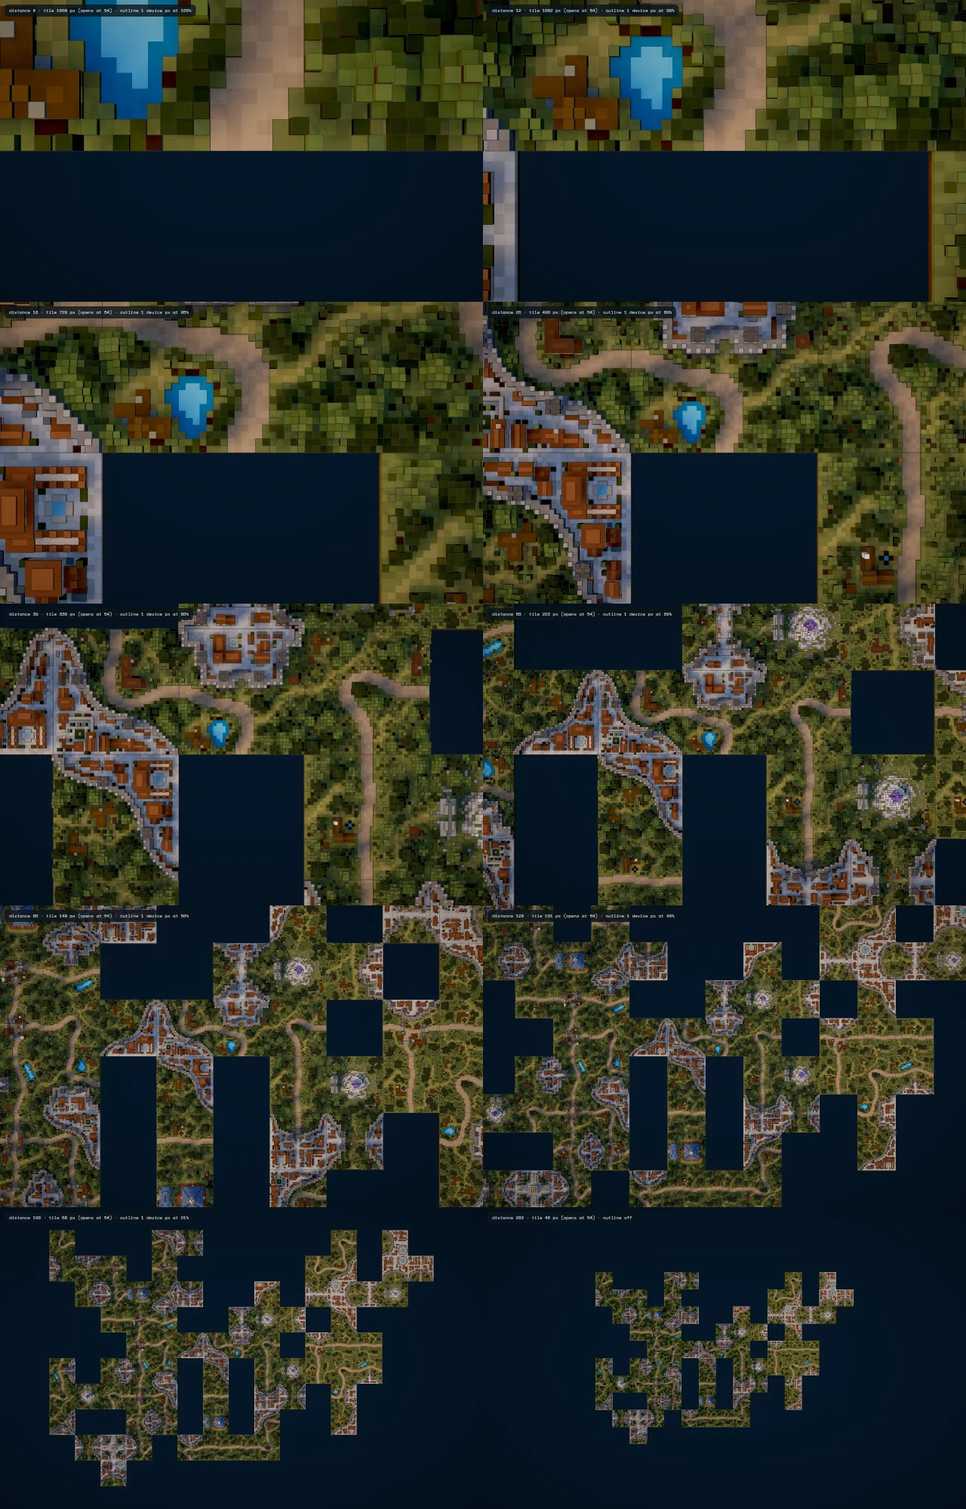
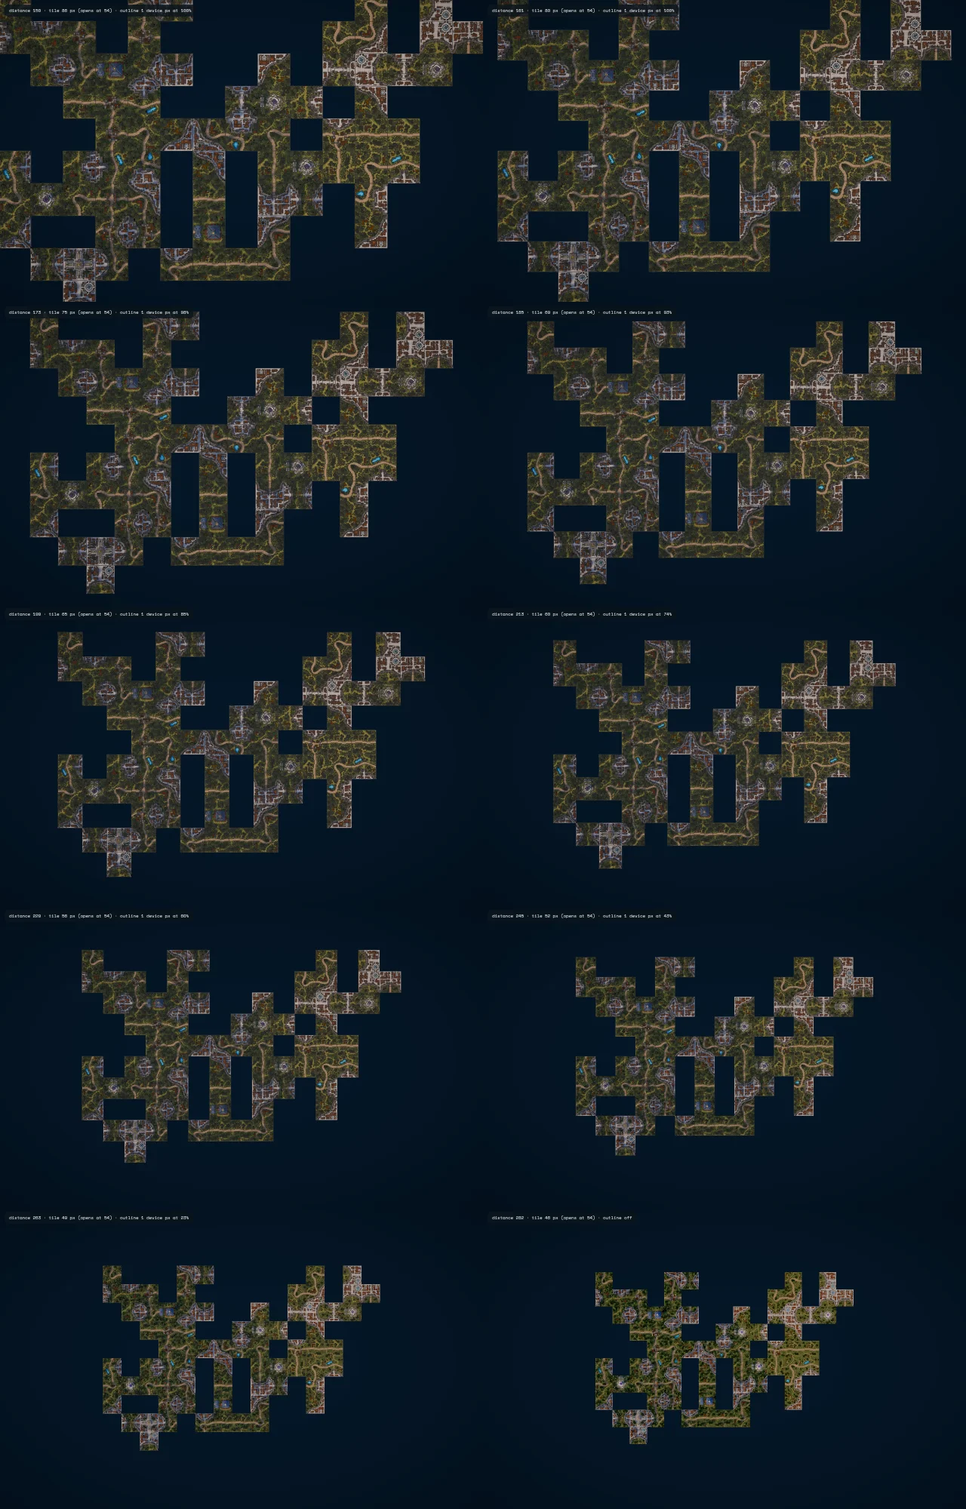
OUT-FADE2: the fade's start is a setting (default 1.5 S), max zoom-in preset, captures

diff --git a/packages/renderer/__tests__/outlines.test.ts b/packages/renderer/__tests__/outlines.test.ts
@@ -6,6 +6,7 @@ import {
   MIN_OUTLINE_OPACITY,
   OUTLINE_CLOSEST_FACTOR,
   OUTLINE_DEPTH_BIAS,
+  OUTLINE_FADE_START,
   OUTLINE_FADE_PRESETS,
   TILE_VOXELS,
   VOXEL_SIZE,
@@ -104,6 +105,17 @@ describe("outlineStroke: the zoom-to-stroke function", () => {
       expect(outlineFade(90, 60, 90, p)).toBe(1);
       expect(outlineFade(900, 60, 90, p)).toBe(1);
     }
+  });
+
+  it("takes t from a variable start: the same position in the log range, whatever the start", () => {
+    // Off at 60 px, start at 90 / 900 / 1800 px: the middle of each log range is t = 0.5.
+    for (const full of [90, 900, 1800]) {
+      expect(outlineFadeT(60 * Math.sqrt(full / 60), 60, full)).toBeCloseTo(0.5, 9);
+      expect(outlineFade(60 * Math.sqrt(full / 60), 60, full, 2)).toBeCloseTo(0.75, 9);
+      expect(outlineFadeT(full, 60, full)).toBe(0);
+    }
+    // A later start fades more gently where the earlier one is already weaker: lower opacity at a given size.
+    expect(outlineFade(100, 60, 1800)).toBeLessThan(outlineFade(100, 60, 150));
   });
 
   it("starts gently and accelerates into the threshold: the slope grows as the camera zooms out (p > 1)", () => {
@@ -208,14 +220,15 @@ describe("outlineStroke: the zoom-to-stroke function", () => {
     expect(outlineStroke(60.5, step)).toMatchObject({ width: 1, opacity: 1 });
   });
 
-  it("defaults: off at 0.85 S, fully on at the closest zoom (30 S), square, a hairline, dark grey", () => {
+  it("defaults: off at 0.85 S, fully on from 1.5 S, square, a hairline, dark grey", () => {
     expect(OUTLINE_CLOSEST_FACTOR).toBe(30);
     expect(OUTLINE_CLOSEST_FACTOR).toBe(OPENING_DISTANCE / CLOSEST_DISTANCE);
+    expect(OUTLINE_FADE_START).toBe(1.5);
     expect(DEFAULT_OUTLINE_SETTINGS).toEqual({
       enabled: true,
       force: "auto",
       fadeOffFactor: 0.85,
-      fadeFullFactor: 30,
+      fadeFullFactor: 1.5,
       fadeExponent: 2,
       fadeEasedEnd: false,
       widthVoxels: 0.015,
@@ -226,22 +239,29 @@ describe("outlineStroke: the zoom-to-stroke function", () => {
       segmentFullDevicePx: 1,
     });
     for (const s of [52, 60, 75]) {
-      expect(outlineStroke(30 * s, DEFAULT_OUTLINE_SETTINGS, 1, s)).toMatchObject({ opacity: 1 });
+      expect(outlineStroke(1.5 * s, DEFAULT_OUTLINE_SETTINGS, 1, s)).toMatchObject({ opacity: 1 });
       expect(outlineStroke(0.85 * s, DEFAULT_OUTLINE_SETTINGS, 1, s).opacity).toBe(0);
-      // The opening view is almost off: t = ln(30) / ln(30 / 0.85) = 0.9543, 1 - t^2 = 0.0891.
-      expect(outlineStroke(s, DEFAULT_OUTLINE_SETTINGS, 1, s).opacity).toBeCloseTo(0.0891, 3);
+      // The opening view: t = ln(1.5) / ln(1.5 / 0.85) = 0.7139, 1 - t^2 = 0.4904.
+      expect(outlineStroke(s, DEFAULT_OUTLINE_SETTINGS, 1, s).opacity).toBeCloseTo(0.4904, 3);
     }
+    expect(outlineOpacityAtOpening()).toBeCloseTo(0.4904, 3);
     // The tile size at the closest zoom is the opening one times 240 / 8, seen from the camera.
     const cam = new THREE.PerspectiveCamera(50, 1, 5, 2000);
     expect(tilePixels(cam, CLOSEST_DISTANCE, 900) / openingTilePixels(cam, 900)).toBeCloseTo(OUTLINE_CLOSEST_FACTOR, 9);
-    // The opacity at S and at 1.15 S for each preset.
-    const at = (m: number, p: number) => outlineFade(m, 0.85, 30, p);
-    expect([1, 2, 3].map((p) => Number(at(1, p).toFixed(4)))).toEqual([0.0456, 0.0891, 0.1307]);
-    expect([1, 2, 3].map((p) => Number(at(1.15, p).toFixed(4)))).toEqual([0.0848, 0.1624, 0.2335]);
+    // The opacity at S and at 1.15 S for each curve at the default start.
+    const at = (m: number, p: number) => outlineFade(m, 0.85, 1.5, p);
+    expect([1, 2, 3].map((p) => Number(at(1, p).toFixed(4)))).toEqual([0.2861, 0.4904, 0.6362]);
+    expect([1, 2, 3].map((p) => Number(at(1.15, p).toFixed(4)))).toEqual([0.5322, 0.7812, 0.8976]);
+    // The "max zoom-in" start (the closest zoom, 30 S): the literal version, almost off at S.
+    const far = (m: number, p: number) => outlineFade(m, 0.85, OUTLINE_CLOSEST_FACTOR, p);
+    expect([1, 2, 3].map((p) => Number(far(1, p).toFixed(4)))).toEqual([0.0456, 0.0891, 0.1307]);
+    expect(outlineOpacityAtOpening(0.85, OUTLINE_CLOSEST_FACTOR)).toBeCloseTo(0.0891, 3);
+    expect(outlineStroke(30 * 60, { ...DEFAULT_OUTLINE_SETTINGS, fadeFullFactor: OUTLINE_CLOSEST_FACTOR }, 1, 60).opacity).toBe(1);
+    expect(outlineStroke(29 * 60, { ...DEFAULT_OUTLINE_SETTINGS, fadeFullFactor: OUTLINE_CLOSEST_FACTOR }, 1, 60).opacity).toBeLessThan(1);
     // Without an opening size, a 900 px high window's (60 px).
     expect(DEFAULT_OPENING_TILE_PX).toBe(60);
-    expect(outlineStroke(70).opacity).toBeCloseTo(outlineFade(70, 51, 1800), 9);
-    expect(outlineStroke(1800)).toMatchObject({ width: 1, opacity: 1 });
+    expect(outlineStroke(70).opacity).toBeCloseTo(outlineFade(70, 51, 90), 9);
+    expect(outlineStroke(90)).toMatchObject({ width: 1, opacity: 1 });
     expect(outlineStroke(51).opacity).toBe(0);
   });
 });
@@ -256,11 +276,12 @@ describe("the opening tile size S", () => {
     expect(openingTilePixels(camera, 900)).toBeCloseTo(60.3, 1);
   });
 
-  it("puts the fade at the same distances on every screen: 0.089 at the opening view, fully on at the closest zoom (8), off past 240 / 0.85", () => {
+  it("puts the fade at the same distances on every screen: 0.49 at the opening view, fully on from 240 / 1.5, off past 240 / 0.85", () => {
     for (const height of [780, 900, 1300]) {
       const s = openingTilePixels(camera, height);
       const at = (distance: number) => outlineStroke(tilePixels(camera, distance, height), DEFAULT_OUTLINE_SETTINGS, 1, s);
-      expect(at(240).opacity).toBeCloseTo(0.0891, 3);
+      expect(at(240).opacity).toBeCloseTo(0.4904, 3);
+      expect(at(240 / 1.5)).toMatchObject({ width: 1, opacity: 1 });
       expect(at(CLOSEST_DISTANCE)).toMatchObject({ width: 1, opacity: 1 });
       expect(at(240 / 0.85 + 0.01).opacity).toBe(0);
       // The farthest zoom (300) is past the off distance (about 282): the outlines vanish zoomed out.

diff --git a/packages/renderer/src/core/outlines.ts b/packages/renderer/src/core/outlines.ts
@@ -16,8 +16,8 @@ import { TILE_SIZE } from "./types";
  *
  * The width is set in the world, as a fraction of a voxel (`widthVoxels`), converted to device pixels at the camera's
  * target, kept to at least `minWidthDevicePx` (a hairline) and capped at `maxWidthPx` CSS px when zoomed in. Zoomed out
- * the outlines fade over the whole zoom range (OUT-FADE2): fully on at the closest zoom (`fadeFullFactor` of the tile size
- * S the board opens at on this viewport, `OUTLINE_CLOSEST_FACTOR` x S) to off at `fadeOffFactor` x S, as `1 - t^p` where
+ * the outlines fade (OUT-FADE2): fully on from `fadeFullFactor` of the tile size S the board opens at on this viewport (the fade's
+ * start: 1.5 S, up to the closest zoom, `OUTLINE_CLOSEST_FACTOR` x S) to off at `fadeOffFactor` x S, as `1 - t^p` where
  * t runs from 0 to 1 on the logarithm of the tile size: a wheel step multiplies the tile size by a constant, so each step
  * moves t by the same amount. They are drawn after the faces with a depth bias towards the camera: an outline lies
  * exactly on the faces it borders, and without the bias it wins or loses the depth test by rounding (the flicker R-OUT
@@ -45,7 +45,7 @@ export interface OutlineSettings {
   /**
    * At or above this share of the opening tile size the outlines are fully on; between the two the opacity is
    * `1 - t^p` of the logarithm of the tile size (`outlineFade`). The default is the closest zoom's share
-   * (`OUTLINE_CLOSEST_FACTOR`): the fade spans the whole zoom range.
+   * (`OUTLINE_FADE_START`, 1.5 S): the fade's start, from `MIN_FADE_START` (1.5) up to `OUTLINE_CLOSEST_FACTOR` (the closest zoom, 30 S).
    */
   fadeFullFactor: number;
   /** The exponent p of the fade `1 - t^p`, in [1, 4]: 1 linear, 2 square (gentle at first, faster near the threshold), 3 cube. */
@@ -83,6 +83,11 @@ export const MIN_OUTLINE_OPACITY = 1 / 255;
  */
 export const OUTLINE_CLOSEST_FACTOR = OPENING_DISTANCE / CLOSEST_DISTANCE;
 
+/** The fade's default start (PM ruling 2026-10-17): fully on from 1.5 S; about 0.49 at the opening view with the square curve. */
+export const OUTLINE_FADE_START = 1.5;
+/** The lowest start the story offers. */
+export const MIN_FADE_START = 1.5;
+
 /** The exponent's range in the story's control. */
 export const MIN_FADE_EXPONENT = 1;
 export const MAX_FADE_EXPONENT = 4;
@@ -93,12 +98,12 @@ const EASED_END_SPAN = 0.25;
 export const DEFAULT_OUTLINE_SETTINGS: OutlineSettings = {
   enabled: true,
   force: "auto",
-  // The fade follows the opening tile size S: off at 0.85 S (the historic threshold), fully on at the closest zoom
-  // (30 S), `1 - t^p` of log(tile px) between (OUT-FADE2), p = 2. A 360 x 780 phone opens at about 52 px a tile (off at
+  // The fade follows the opening tile size S: off at 0.85 S (the historic threshold), fully on from the start
+  // (1.5 S; up to the closest zoom, 30 S), `1 - t^p` of log(tile px) between (OUT-FADE2), p = 2. A 360 x 780 phone opens at about 52 px a tile (off at
   // 44), a 900 px high window at about 60 (off at 51, over the farthest zoom's 48 px: the outlines vanish zoomed out).
   // At S itself the opacity is no longer 1: see `outlineOpacityAtOpening`.
   fadeOffFactor: 0.85,
-  fadeFullFactor: OUTLINE_CLOSEST_FACTOR,
+  fadeFullFactor: OUTLINE_FADE_START,
   fadeExponent: 2,
   fadeEasedEnd: false,
   // 1.5 % of a voxel, in the 1 to 2 % that keeps the stroke thin. That is under a device pixel until a voxel is about 33 CSS px wide
@@ -139,7 +144,7 @@ const OFF: OutlineStroke = { width: 0, opacity: 0 };
 /**
  * The stroke for a tile shown `tilePx` CSS px wide on a screen of `pixelRatio` device px per CSS px, where the board
  * opens at `openingTilePx` (S, `openingTilePixels`). The opacity is 0 at or below `fadeOffFactor` x S, 1 at or above
- * `fadeFullFactor` x S (the closest zoom), `outlineFade` between, and 0 below `MIN_OUTLINE_OPACITY`. The width
+ * `fadeFullFactor` x S (the start), `outlineFade` between, and 0 below `MIN_OUTLINE_OPACITY`. The width
  * is `widthVoxels` of a voxel at that zoom, in device px, at least `minWidthDevicePx` and at most `maxWidthPx` CSS px.
  * Width and opacity never decrease as the camera zooms in.
  */

diff --git a/packages/app/src/stories/renderer/outlines.stories.tsx b/packages/app/src/stories/renderer/outlines.stories.tsx
@@ -4,8 +4,8 @@ import { MAX_DISTANCE, MIN_DISTANCE, VIEWS } from "./outlines-tour";
 
 /**
  * The voxel tiles' outlines on the recorded 72-tile board (R-OUT, R-VIS): dark grey antialiased strokes whose width is a
- * share of a voxel (a hairline over most of the zoom range, capped zoomed in), fading out over the whole zoom range
- * (OUT-FADE2): fully on at the closest zoom, off at 0.85 of the tile size the board opens at on this screen, as 1 - t^p
+ * share of a voxel (a hairline over most of the zoom range, capped zoomed in), fading out as the camera zooms out
+ * (OUT-FADE2): fully on from 1.5 of the tile size the board opens at on this screen (or up to the closest zoom), off at 0.85 of it, as 1 - t^p
  * with t on the log of the tile size (curve presets linear, square, cube; p on a control), and never flickering while it pans. The
  * tour goes through the views where the old 1-pixel lines failed; stop it to hold one view and set its distance. Under
  * reduced motion nothing moves by itself.
@@ -29,12 +29,12 @@ const meta = {
       description: "Outlines on software WebGL (SwiftShader, llvmpipe...): auto turns them off there; on and off force them whatever the detection says. The console logs the path taken",
       table: { category: "Outlines" },
     },
-    fadeRange: {
-      // Keys without a dot, so a URL can name one (`args=fadeRange:fade_1_3`); `mapping` gives the board the range.
-      control: { type: "inline-radio", labels: { whole_range: "whole range", fade_1_3: "fade 1.3", fade_1_15: "fade 1.15", custom: "custom" } },
-      options: ["whole_range", "fade_1_3", "fade_1_15", "custom"],
-      mapping: { whole_range: "whole range", fade_1_3: "fade 1.3", fade_1_15: "fade 1.15", custom: "custom" },
-      description: "Where the outlines are fully on: whole range (the default) is the closest zoom, 30 x the opening tile size S; fade 1.3 and fade 1.15 are OUT-FADE's 1.3 S and 1.15 S. All are off at 0.85 S. Custom: the full factor control below",
+    fadeStart: {
+      // Keys without a dot or space, so a URL can name one (`args=fadeStart:max_zoom_in`); `mapping` gives the board the start.
+      control: { type: "inline-radio", labels: { s1_5: "1.5 S", max_zoom_in: "max zoom-in", custom: "custom" } },
+      options: ["s1_5", "max_zoom_in", "custom"],
+      mapping: { s1_5: "1.5 S", max_zoom_in: "max zoom-in", custom: "custom" },
+      description: "Where the outlines are fully on: 1.5 S (the default; S is the opening tile size, the readout's \"opens at\"; 0.49 at S with the square curve) or max zoom-in, the closest zoom (30 S, the literal whole-range fade: 0.09 at S). All are off at 0.85 S. Custom: the start control below",
       table: { category: "Outlines" },
     },
     fadeCurve: {
@@ -54,8 +54,8 @@ const meta = {
       table: { category: "Outlines" },
     },
     fadeFullFactor: {
-      control: { type: "range", min: 0.5, max: 30, step: 0.01 },
-      description: "Outlines fully on from this share of the tile size the board opens at on this screen (the readout's \"opens at\"; 30 is the closest zoom); with a range preset, the preset's",
+      control: { type: "range", min: 1.5, max: 30, step: 0.1 },
+      description: "The fade's start: outlines fully on from this share of the tile size the board opens at on this screen (1.5 to 30, the closest zoom), on a log scale; with a start preset, the preset's",
       table: { category: "Outlines" },
     },
     fadeOffFactor: {

diff --git a/packages/app/src/stories/renderer/outlines-board.tsx b/packages/app/src/stories/renderer/outlines-board.tsx
@@ -25,11 +25,10 @@ export interface OutlinesBoardProps {
   /** Outlines on software WebGL: "auto" turns them off there; "on" and "off" force them whatever the detection says. */
   force?: "auto" | "on" | "off";
   /**
-   * The fade's range (OUT-FADE2): "whole range" fully on at the closest zoom (30 S), off at 0.85 S; "fade 1.3" and
-   * "fade 1.15" (OUT-FADE's) fully on from 1.3 S or 1.15 S, also off at 0.85 S. A range sets the full factor below;
-   * "custom" leaves it to its control.
+   * Where the fade starts (OUT-FADE2): "1.5 S" (the default) fully on from 1.5 x the opening tile size S; "max zoom-in"
+   * the closest zoom (30 S), the literal whole-range fade; "custom" leaves it to the start control below.
    */
-  fadeRange?: FadeRange;
+  fadeStart?: FadeStart;
   /** The curve 1 - t^p: "linear" p = 1, "square" p = 2 (the default), "cube" p = 3; "custom" leaves p to its control. */
   fadeCurve?: FadeCurve;
   fadeExponent?: number;
@@ -54,24 +53,23 @@ export interface OutlinesBoardProps {
   maxPixelRatio?: number | "auto";
 }
 
-export type FadeRange = "whole range" | "fade 1.3" | "fade 1.15" | "custom";
+export type FadeStart = "1.5 S" | "max zoom-in" | "custom";
 export type FadeCurve = "linear" | "square" | "cube" | "custom";
 
 /** The curves' exponents p of 1 - t^p (the renderer's `OUTLINE_FADE_PRESETS`, which its index does not export). */
 const FADE_CURVES = { linear: 1, square: 2, cube: 3 } as const;
 
-/** The ranges' full factors (shares of the opening tile size S); all are off at 0.85 S. */
-export const FADE_RANGES = {
-  "whole range": { fadeFullFactor: DEFAULT_RENDERER_SETTINGS.outlines.fadeFullFactor },
-  "fade 1.3": { fadeFullFactor: 1.3 },
-  "fade 1.15": { fadeFullFactor: 1.15 },
+/** The starts' full factors (shares of the opening tile size S); the fade is off at 0.85 S. 30 is the closest zoom. */
+export const FADE_STARTS = {
+  "1.5 S": { fadeFullFactor: DEFAULT_RENDERER_SETTINGS.outlines.fadeFullFactor },
+  "max zoom-in": { fadeFullFactor: (DEFAULT_RENDERER_SETTINGS.camera.maxDistance * 0.8) / DEFAULT_RENDERER_SETTINGS.camera.minDistance },
 } as const;
 
 const { outlines: OUTLINES, camera: CAMERA } = DEFAULT_RENDERER_SETTINGS;
 
 /** The story's defaults: the renderer's. */
 export const SETTINGS_DEFAULTS = {
-  fadeRange: "whole range" as FadeRange,
+  fadeStart: "1.5 S" as FadeStart,
   fadeCurve: "square" as FadeCurve,
   fadeExponent: OUTLINES.fadeExponent,
   fadeEasedEnd: OUTLINES.fadeEasedEnd,
@@ -142,7 +140,7 @@ export function OutlinesBoard({ tour, view, distance, redraw = false, readout = 
   const merged = { ...SETTINGS_DEFAULTS, ...rest };
   const o = {
     ...merged,
-    ...(merged.fadeRange === "custom" ? {} : FADE_RANGES[merged.fadeRange]),
+    ...(merged.fadeStart === "custom" ? {} : FADE_STARTS[merged.fadeStart]),
     ...(merged.fadeCurve === "custom" ? {} : { fadeExponent: FADE_CURVES[merged.fadeCurve] }),
   };
   const settings = useMemo<RendererSettingsInput>(

diff --git a/packages/renderer/__tests__/game-scene-settings.test.ts b/packages/renderer/__tests__/game-scene-settings.test.ts
@@ -117,14 +117,14 @@ describe("GameScene settings", () => {
     const desktop = scene.getZoom();
     expect(desktop.openingTilePx).toBeCloseTo(openingTilePixels(camera, 900), 9);
     expect(desktop.openingTilePx).toBeCloseTo(60.3, 1);
-    // The opening view is at 0.089 of the fade (OUT-FADE2, square), the same on every screen.
-    expect(desktop.outline.opacity).toBeCloseTo(0.0893, 2);
+    // The opening view is at 0.49 of the fade (OUT-FADE2, square, start 1.5 S), the same on every screen.
+    expect(desktop.outline.opacity).toBeCloseTo(0.4904, 2);
     scene.render();
     (scene as any).surface = { getSize: () => ({ width: 360, height: 780 }) };
     const phone = scene.getZoom();
     expect(phone.openingTilePx).toBeCloseTo(52.3, 1);
     // The opening view keeps its opacity: the tile and S shrink together.
-    expect(phone.outline.opacity).toBeCloseTo(0.0893, 2);
+    expect(phone.outline.opacity).toBeCloseTo(0.4904, 2);
     scene.render();
     expect(setOutlineStroke).toHaveBeenCalledTimes(2);
   });

diff --git a/docs/client/v2-architecture.md b/docs/client/v2-architecture.md
@@ -1320,30 +1320,43 @@ so a straight edge split into many segments covers each pixel once. The width is
 `widthVoxels` (0.015, 1.5 % of a voxel; a tile is 40 voxels of 0.075 world units) at the
 camera's target, at least `minWidthDevicePx` (1, a hairline) and at most `maxWidthPx` (2 CSS px, the cap
 zoomed in). The fade follows the tile size S the board opens at on this viewport (`openingTilePixels`: a tile's size at
-the camera's opening distance, 0.8 of its farthest, 240), recomputed when the viewport is resized, and spans **the whole
-zoom range** (OUT-FADE2, owner 2026-10-17: OUT-FADE's range was too short): fully on at the closest zoom
-(`CLOSEST_DISTANCE`, 8), off at `fadeOffFactor` (0.85) x S, the historic threshold. The tile size is inversely
-proportional to the camera distance, so the tile at the closest zoom is 240 / 8 = **30 S** (about 1,600 px, 1,608 measured, at S = 54 on a
-1280 x 800 window; `OUTLINE_CLOSEST_FACTOR`, `fadeFullFactor` 30). The opacity is `1 - t^p`, with
-`t = ln(full / tile px) / ln(full / off)`: 0 at the closest zoom, 1 at 0.85 S, measured on the log of the tile size so
-every wheel step moves t by the same amount; clamped to 1 above and 0 below, and 0 under 1/255 (not drawn). The exponent
-`fadeExponent` p is in [1, 4]; the story's presets are **linear** (p = 1), **square** (p = 2, the default: gentle at the
-start of the zoom-out, faster near the threshold, as the owner described) and **cube** (p = 3), and `fadeEasedEnd` (off by
-default, because the owner asked for an acceleration into the threshold) eases the last quarter of the opacity with a cubic
-that meets `1 - t^p` with its slope and reaches 0 with a zero slope: no kink at the threshold. The smoothstep of OUT-FADE
-is gone. A 360 x 780 phone opens at S = 52 (off at about 44), a 900 px high window at about 60 (off at about 51). The tile
-and S scale together with the height, so on every screen the outlines are off past distance 240 / 0.85 (about 282): they
-vanish at the farthest zoom (300). **Consequence: the opening view (S) is almost off.** The opening distance is 240 of a
-range of 8 to 300, so S is only 0.18 of the way from the off point to the closest zoom in the log: t = ln 30 / ln(30 / 0.85)
-= 0.954, and the opacity at S is **4.6 % (linear), 8.9 % (square), 13.1 % (cube)**; at 1.15 S 8.5 %, 16.2 %, 23.3 %; at
-0.92 S 2.2 %, 4.4 %, 6.5 %; at 0.87 S 0.7 %, 1.3 %, 1.9 % (readouts of the story match, rounded). Square reaches 50 % at 2.4 S
-(distance about 100, 130 px a tile at S = 54). The
-OUT-FADE ranges stay in the story as the "range" option ("fade 1.3", "fade 1.15", fully on from 1.3 S or 1.15 S, with the
-chosen power curve instead of the smoothstep) next to "whole range" (the default) and a custom full factor. Captures
-(`captures/out-fade2-<curve>-<view>.webp`, curve linear, square, cube; views max-zoom-in, S, 0.92-S, 0.87-S; the
-Outlines story, 1280 x 800, DPR 1, headless Chrome on **software WebGL (SwiftShader), outlines forced on**,
-`force: "on"`), and a frame strip of a zoom-out sweep (10 frames, log-spaced from the closest zoom to 0.85 S, square):
-`captures/out-fade2-square-sweep.webp`.
+the camera's opening distance, 0.8 of its farthest, 240), recomputed when the viewport is resized. It is `1 - t^p`
+(OUT-FADE2, owner 2026-10-17: OUT-FADE's range was too short): off at `fadeOffFactor` (0.85) x S, the historic threshold,
+and fully on from `fadeFullFactor`, **the fade's start**, a setting and a story control from 1.5 S up to the closest zoom
+(`CLOSEST_DISTANCE`, 8). The tile size is inversely proportional to the camera distance, so the tile at the closest zoom
+is 240 / 8 = **30 S** (`OUTLINE_CLOSEST_FACTOR`; 1,608 px measured at S = 54 on a 1280 x 800 window). With
+`t = ln(full / tile px) / ln(full / off)`: 0 at the start and above, 1 at 0.85 S, on the log of the tile size so every
+wheel step moves t by the same amount; the opacity is clamped to 1 above the start and 0 below 0.85 S, and hidden under
+1/255. The exponent `fadeExponent` p is in [1, 4]; the story's presets are **linear** (p = 1), **square** (p = 2, the
+default: gentle at the start of the zoom-out, faster near the threshold, as the owner described) and **cube** (p = 3);
+`fadeEasedEnd` (off by default, because the owner asked for an acceleration into the threshold) eases the last quarter of
+the opacity with a cubic that meets `1 - t^p` with its slope and reaches 0 with a zero slope: no kink at the threshold.
+The smoothstep of OUT-FADE is gone. A 360 x 780 phone opens at S = 52 (off at about 44), a 900 px high window at about 60
+(off at about 51). The tile and S scale together with the height, so on every screen the outlines are off past distance
+240 / 0.85 (about 282): they vanish at the farthest zoom (300).
+
+**The start (PM ruling 2026-10-17).** The literal version, fully on only at the closest zoom ("max zoom-in", start 30 S),
+leaves the opening view almost off: S is only 0.18 of the way up the log range from 0.85 S to 30 S, t = ln 30 /
+ln(30 / 0.85) = 0.954, and the opacity at S is 4.6 % (linear), **8.9 %** (square), 13.1 % (cube). So the default start is
+**1.5 S**: t = ln 1.5 / ln(1.5 / 0.85) = 0.714 and the opacity at the opening view is **0.490** with square. Opacity by
+curve at the default start (readouts of the story, software WebGL, match the formula):
+
+| | linear | square | cube |
+|---|---|---|---|
+| S (opening view) | 28.6 % | **49.0 %** | 63.6 % |
+| 1.15 S | 53.2 % | 78.1 % | 89.8 % |
+| 0.92 S | 13.9 % | 25.9 % | 36.3 % |
+| 0.87 S | 4.1 % | 8.0 % | 11.8 % |
+
+and at the "max zoom-in" start: S 4.6 / 8.9 / 13.1 %, 1.15 S 8.5 / 16.2 / 23.3 %, 0.92 S 2.2 / 4.4 / 6.5 %, 0.87 S 0.7 /
+1.3 / 1.9 %. OUT-FADE's "fade 1.15" and "fade 1.3" range presets are **replaced by the start control**: they were two
+values of the same parameter (1.15 S and 1.3 S), now below the control's 1.5 S minimum, and the ruling set the default
+above them. Captures (Outlines story, 1280 x 800, DPR 1, headless Chrome on **software WebGL (SwiftShader), outlines
+forced on**, `force: "on"`, in `captures/`): `out-fade2-square-S.webp` (default start) against `out-fade2-max-square-S.webp`
+("max zoom-in" start) at the opening view, and the frame strip of a zoom-out sweep of the default, 10 frames log-spaced
+from 1.6 S (just above the start) to 0.85 S, `out-fade2-square-sweep.webp` (opacity 100, 100, 98, 93, 85, 74, 60, 43, 23 %,
+off; the default is fully on at every zoom above 1.5 S, so a sweep from the closest zoom would show it unchanged). The `out-fade2-max-<curve>-<view>.webp` set (linear,
+square, cube at the closest zoom, S, 0.92 S, 0.87 S) and `out-fade2-max-square-sweep.webp` (closest zoom to 0.85 S) are the "max zoom-in" start's.
 **The segment cut does not pop there** (OUT-LOD's `segmentOffDevicePx` 0.5 / `segmentFullDevicePx` 1, kept as is): a
 voxel's horizontal edge is `tilePx / 40` device px long at least, 1.1 px at the phone's 0.85 S, so it is whole across the
 fade; seen from above a vertical edge is under 0.5 px at every zoom, so it is always dropped; from the 27 degree tilt
